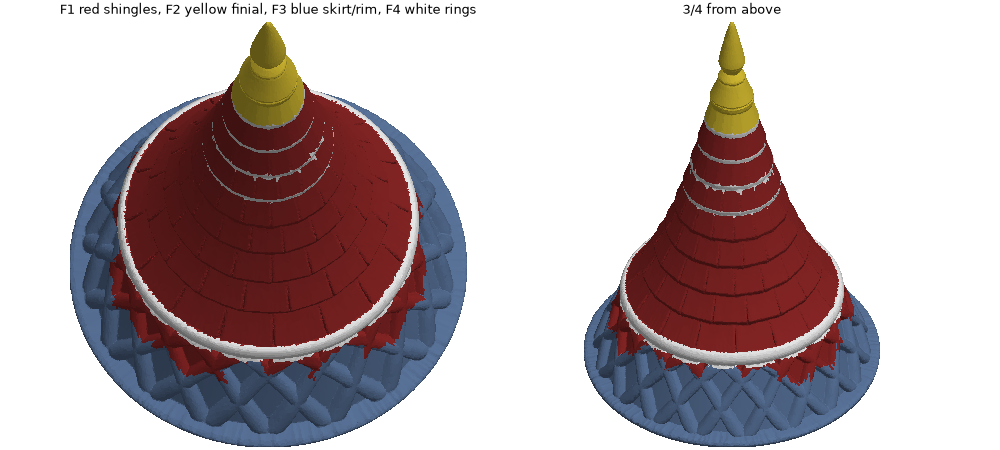
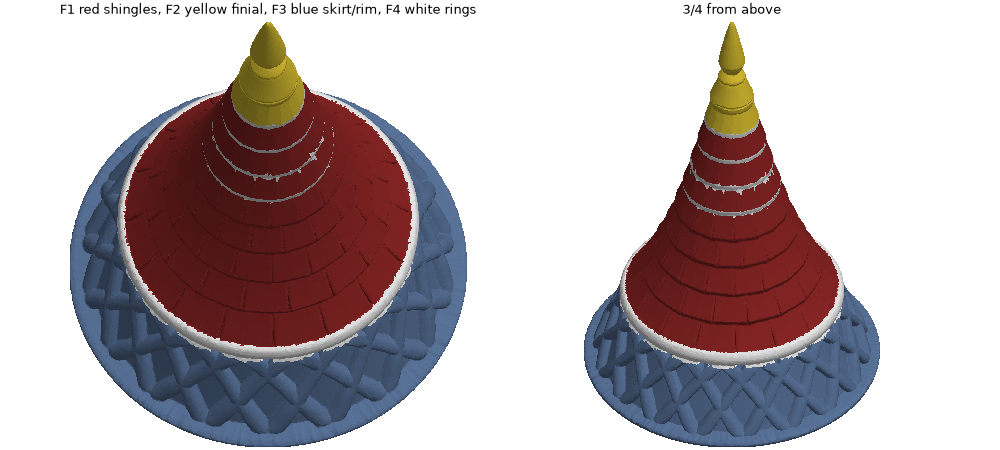
Rooftop export: below-ring rule -> F3 (manual), re-read verified, preview

diff --git a/tools/rooftop_export.py b/tools/rooftop_export.py
@@ -3,7 +3,7 @@ mesh -> crease cut -> bare whole-triangle 3MF in out/. The band rules are a
 hand selection in this model's coordinates (height above the base, radius
 about the bounding-box axis), not a method result.
 
-  python tools/rooftop_export.py [--rings all|D|none] [--out out/rooftop_autocolor.3mf]
+  python tools/rooftop_export.py [--rings all|D|none] [--below-ring F3|none] [--out out/rooftop_autocolor.3mf]
 """
 import argparse
 import os
@@ -25,6 +25,8 @@ ap.add_argument('--stl', default='refs/SD_RPG_WizardsArcaneTreasuryDiceTower-Roo
 ap.add_argument('--n', type=int, default=200_000)
 ap.add_argument('--rings', default='all', choices=['all', 'D', 'none'])
 ap.add_argument('--out', default='out/rooftop_autocolor.3mf')
+ap.add_argument('--below-ring', default='F3', choices=['F3', 'none'],
+                help='MANUAL rule: everything below the thick ring (z < 33.5) not already F4 -> F3')
 args = ap.parse_args()
 assert 'refs' not in os.path.normpath(args.out).split(os.sep)
 
@@ -67,6 +69,11 @@ for name in use:
     sel = (C[:, 2] >= z0) & (C[:, 2] < z1) & (r >= rmin)
     print(f'  ring {name}: {sel.sum()} faces, {A[sel].sum():.0f} mm2 -> F4')
     lab_c[sel] = 4
+if args.below_ring == 'F3':
+    sel = (C[:, 2] < RINGS['thick'][0]) & (lab_c != 4) & (lab_c != 3)
+    print(f'  below-ring rule (z < {RINGS["thick"][0]}, not F4) -> F3: {sel.sum()} faces, {A[sel].sum():.0f} mm2 changed '
+          f'(from F1 {A[sel & (lab_c == 1)].sum():.0f}, F2 {A[sel & (lab_c == 2)].sum():.0f} mm2)')
+    lab_c[sel] = 3
 print('full-mesh area % per filament:', np.round(100 * np.bincount(lab_c, weights=A, minlength=K + 1)[1:] / A.sum(), 2))
 np.save('out/rooftop_full_labels.npy', lab_c)
 

diff --git a/STATUS.md b/STATUS.md
@@ -5,11 +5,11 @@ STL only (1.40 M tris, 88k mm^2; no Bambu project in refs/, export will be a bar
 200k (within 0.05 mm of the full surface; features 13 min, vs 28 min / 1 h 51 at 300k / 400k). Top's
 oversegmentation + greedy merge at 800 mm^2 -> 28 parts, numbered in `reports/rooftop_parts_view{1-4}.png`.
 Cone courses and the finial come out as parts; the shingle rows and the skirt lattice are shallow relief the
-method cannot split (flagged). First export done: `out/rooftop_autocolor.3mf` (bare 3MF from the STL, 4 filaments,
-rings F4 by MANUAL band rules, re-read verified) but built on a mapping made from mis-labelled views: 19 % of the
-area is F1 below the thick ring (socket wall 11, hidden annulus 6, step 17/24, lower halves of 1 and 3). Views
-regenerated with exact visibility + a from-below view; **waiting for the corrected mapping of parts 1, 3, 6, 11,
-17, 24**, then rerun `tools/rooftop_export.py`. Tools: `tools/rooftop_parts.py` (stages res / parts / views,
+method cannot split (flagged). Export done: `out/rooftop_autocolor.3mf` (bare 3MF from the STL, 4 filaments, F1 36.7 / F2 6.6 / F3 51.8 / F4 4.9 %
+of area, re-read verified). Two MANUAL rules in this model's coordinates on top of the user's part mapping: rings
+-> F4 by height/radius bands, everything below the thick ring (z < 33.5) not F4 -> F3. Needs the user's Bambu
+Studio load check. Next model: MidSection, then Base of the same tower (STLs in refs/).
+Tools: `tools/rooftop_parts.py` (stages res / parts / views,
 `--sweep`), `tools/rooftop_export.py` (`--rings all|D|none`), `autocolor/meshio.py` (STL loader),
 `fullmesh.export_bare` (plain 3MF writer).
 Then MidSection and Base of the same tower.
@@ -123,7 +123,7 @@ F1 dark red = tree AND posts (two distinct parts, one colour). F2 grey = railing
 - Scorer assumes product coupling when both sides are fractional; exact only for whole-triangle candidates.
 
 ## Next step
-Rooftop: corrected mapping for parts 1, 3, 6, 11, 17, 24 (see reports/rooftop_parts.md section 5), rerun the export.
+Rooftop exported; user loads `out/rooftop_autocolor.3mf` in Bambu Studio (4 filaments). Then MidSection.
 Tool build: waiting on the user's timing test (Bambu Studio finish of `out/top_autocolor.3mf` vs original paint time).
 If the tool is still worth it afterwards: Phase 3 part 2, the PyVista + Qt click tool (100k display, pre-placed
 primitive widgets, brush/nudge, evaluate a full-resolution junction patch else 200k display, export to out/),

diff --git a/reports/rooftop_parts.md b/reports/rooftop_parts.md
@@ -79,7 +79,7 @@ VERIFIED from the table below, names INFERRED):
 - Part counts and the 800 mm^2 floor were chosen for this model's size (88k mm^2); the floor scales with
   model area, not coordinates.
 
-## 5. Export, first pass (`tools/rooftop_export.py --rings all`, log `rooftop_export.log`, VERIFIED)
+## 5. Export (`tools/rooftop_export.py --rings all --below-ring F3`, log `rooftop_export.log`, VERIFIED)
 
 Mapping as given by the user from the first (wrong) views: F1 = 21 13 2 12 18 1 5 6 9 11 20 3 23 14 27 24 17,
 F2 = 10 7, F3 = 4 8 25 26 15 19 16 0 22. **Rings -> F4 by MANUAL band rules** (height above the base and radius
@@ -91,8 +91,9 @@ Pipeline: decimated labels -> closest-face transfer (3 s) -> full-mesh crease cu
 triangle order, same layout as the PoC export). Re-read: 1,396,424 triangles, strings and labels identical.
 **4 filaments.** Area: F1 55.9 %, F2 6.6 %, F3 32.7 %, F4 4.9 %. Preview: `rooftop_export_preview.png`.
 
-**Known defect of this export (from the misread views):** 16,899 mm^2 = 19 % of the surface is F1 below the thick
-ring (z < 33.5 mm): the socket wall 11, the hidden annulus 6, the step ring 17 and its under-lip 24, and the
-lower parts of 1 and 3. Visible in the preview as red patches on the skirt below the ring. Needs a corrected
-mapping for parts 1, 3, 6, 11, 17, 24 (1 and 3 straddle the ring: they can be split at z 33.5 by the same band
-rule if their lower part should follow the skirt).
+**Second MANUAL rule (user's decision after the first pass): everything below the thick ring (z < 33.5 mm)
+that is not F4 -> F3.** This covers the socket wall 11, the hidden annulus 6, the step ring 17 / under-lip 24 and
+the lower portions of parts 1 and 3 (which straddle the ring); 411,926 faces, 16,899 mm^2 moved from F1 to F3.
+Everything above the ring stays as mapped. Final area: **F1 36.7 %, F2 6.6 %, F3 51.8 %, F4 4.9 %**; 4 filaments.
+The first pass (without this rule) had those 19 % as F1, from a mapping made off the mis-labelled first views.
+Both ring bands and the below-ring cut are hand selections in this model's coordinates, not method results.
